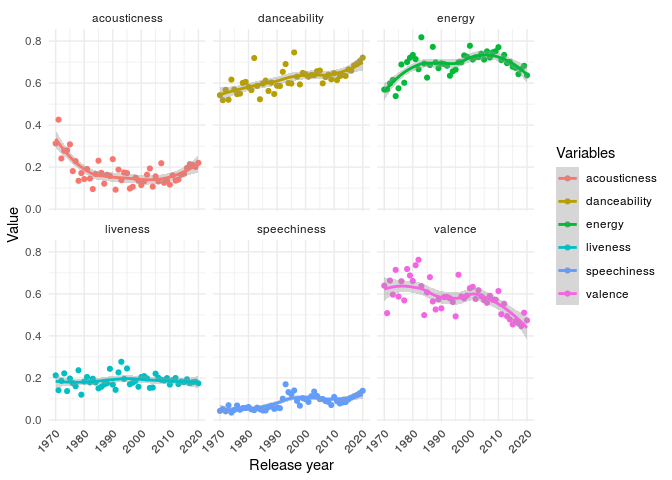
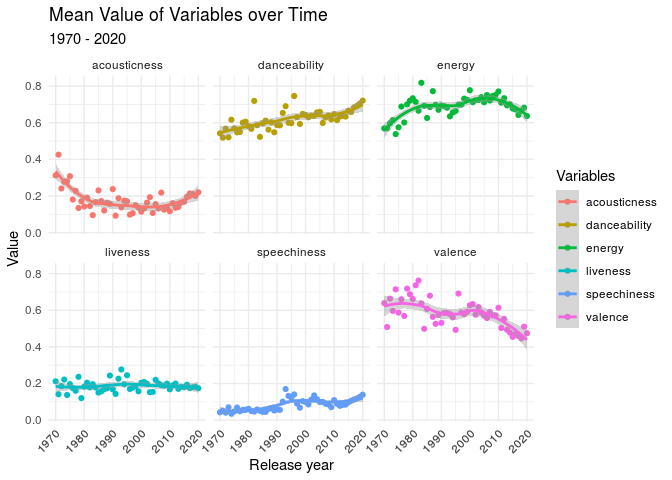
Fix graphs

diff --git a/README.md b/README.md
@@ -87,6 +87,98 @@ successfully identified many characteristics which would give a song the
 highest likelihood of it being popular, which are outlined in our
 presentation.
 
+<table>
+
+<thead>
+
+<tr>
+
+<th style="text-align:right;">
+
+acousticness
+
+</th>
+
+<th style="text-align:right;">
+
+danceability
+
+</th>
+
+<th style="text-align:right;">
+
+energy
+
+</th>
+
+<th style="text-align:right;">
+
+instrumentalness
+
+</th>
+
+<th style="text-align:right;">
+
+liveness
+
+</th>
+
+<th style="text-align:right;">
+
+valence
+
+</th>
+
+</tr>
+
+</thead>
+
+<tbody>
+
+<tr>
+
+<td style="text-align:right;">
+
+0.0874
+
+</td>
+
+<td style="text-align:right;">
+
+0.6767
+
+</td>
+
+<td style="text-align:right;">
+
+0.7331
+
+</td>
+
+<td style="text-align:right;">
+
+0.0097
+
+</td>
+
+<td style="text-align:right;">
+
+0.1967
+
+</td>
+
+<td style="text-align:right;">
+
+0.8828
+
+</td>
+
+</tr>
+
+</tbody>
+
+</table>
+
 ## Evaluation
 
 We did our best to make the data set as appropriate as possible, however
